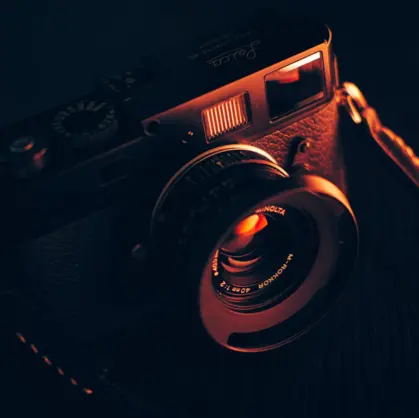
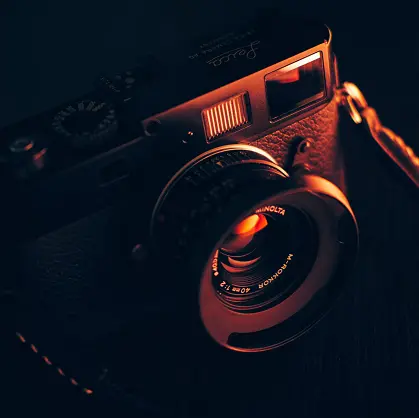
correction : creation class css width et height 100% pour toutes les images du site + modif compression image (trop de perte de qualité)

diff --git a/index.html b/index.html
@@ -29,8 +29,8 @@
 				<li><a href="#services">Service</a></li>
 				<li><a href="#contact">Contact</a></li>
 				<li><a class="social-link" href="https://www.instagram.com/ninacarducci.photo/?hl=fr"
-						target="_blank"><img src="assets/images/instagram.png" alt="logo instagram"
-							title="Instagram"></a></li>
+						target="_blank"><img src="assets/images/instagram.png" alt="logo instagram" title="Instagram"
+							class="width-height-100"></a></li>
 			</ul>
 		</nav>
 	</header>
@@ -47,16 +47,16 @@
 			</div>
 			<div class="carousel-inner">
 				<div class="carousel-item active">
-					<img src="./assets/images/slider/ryoji-iwata-entreprise.webp" class="d-block w-100"
+					<img src="./assets/images/slider/ryoji-iwata-entreprise.webp" class="d-block w-100 width-height-100"
 						alt="photo d'un homme d'affaires">
 				</div>
 				<div class="carousel-item">
-					<img src="./assets/images/slider/nicholas-green-foule-concert.webp" class="d-block w-100"
-						alt="photo d'une foule dans un concert">
+					<img src="./assets/images/slider/nicholas-green-foule-concert.webp"
+						class="d-block w-100 width-height-100" alt="photo d'une foule dans un concert">
 				</div>
 				<div class="carousel-item">
-					<img src="./assets/images/slider/edward-cisneros-mariage.webp" class="d-block w-100"
-						alt="photo de mariage">
+					<img src="./assets/images/slider/edward-cisneros-mariage.webp"
+						class="d-block w-100 width-height-100" alt="photo de mariage">
 				</div>
 			</div>
 			<button class="carousel-control-prev" type="button" data-bs-target="#carouselExampleIndicators"
@@ -75,7 +75,8 @@
 	<main>
 		<div id="about">
 			<div class="picture left">
-				<img src="./assets/images/nina.webp" alt="portrait de Nina Carducci" title="Nina Carducci">
+				<img src="./assets/images/nina.webp" alt="portrait de Nina Carducci" title="Nina Carducci"
+					class="width-height-100">
 			</div>
 			<div id="about-me">
 				<h2 class="about-me__title">A propos de moi</h2>
@@ -99,30 +100,30 @@
 			<h2 class="title">Portfolio</h2>
 			<div class="container py-3">
 				<div class="gallery" style="display: none">
-					<img data-gallery-tag="Concert" class="gallery-item"
+					<img data-gallery-tag="Concert" class="gallery-item width-height-100"
 						src="./assets/images/gallery/concerts/aaron-paul-concert.webp"
 						alt="Photo d'un concert - Aaron Paul" />
-					<img data-gallery-tag="Entreprises" class="gallery-item"
-						src="./assets/images/gallery/entreprise/ali-morshedlou-portrait-entreprise.jpg"
+					<img data-gallery-tag="Entreprises" class="gallery-item width-height-100"
+						src="./assets/images/gallery/entreprise/ali-morshedlou-portrait-entreprise.webp"
 						alt="Photo d'entreprise - portrait d'un homme" />
-					<img data-gallery-tag="Entreprises" class="gallery-item"
+					<img data-gallery-tag="Entreprises" class="gallery-item width-height-100"
 						src="./assets/images/gallery/entreprise/jason-goodman-portrait-entreprise.webp"
 						alt="Photo d'entreprise - portrait d'une femme" />
-					<img data-gallery-tag="Mariages" class="gallery-item"
+					<img data-gallery-tag="Mariages" class="gallery-item width-height-100"
 						src="./assets/images/gallery/mariage/hannah-busing-mariage.webp"
 						alt="Photo de mariage - main dans la main" />
-					<img data-gallery-tag="Portrait" class="gallery-item"
+					<img data-gallery-tag="Portrait" class="gallery-item width-height-100"
 						src="./assets/images/gallery/portraits/ade-tunji-portrait.webp" alt="Portrait d'un homme" />
-					<img data-gallery-tag="Mariages" class="gallery-item"
+					<img data-gallery-tag="Mariages" class="gallery-item width-height-100"
 						src="./assets/images/gallery/mariage/jakob-owens-mariage.webp"
 						alt="Photo de mariage - couple" />
-					<img data-gallery-tag="Portrait" class="gallery-item"
+					<img data-gallery-tag="Portrait" class="gallery-item width-height-100"
 						src="./assets/images/gallery/portraits/nino-van-prattenburg-portrait.webp"
 						alt="Portrait d'une femme" />
-					<img data-gallery-tag="Concert" class="gallery-item"
+					<img data-gallery-tag="Concert" class="gallery-item width-height-100"
 						src="./assets/images/gallery/concerts/austin-neill-concert.webp"
 						alt="Photo d'un concert - Aaron Paul" />
-					<img data-gallery-tag="Entreprises" class="gallery-item"
+					<img data-gallery-tag="Entreprises" class="gallery-item width-height-100"
 						src="./assets/images/gallery/entreprise/mateus-campos-felipe-portrait-entreprise.webp"
 						alt="Photo d'entreprise - portrait d'une femme" />
 				</div>
@@ -206,7 +207,7 @@
 					</form>
 				</div>
 				<div class="picture right">
-					<img src="./assets/images/camera.webp" alt="Image d'un appareil photo">
+					<img src="./assets/images/camera.webp" alt="Image d'un appareil photo" class="width-height-100">
 				</div>
 			</div>
 		</div>

diff --git a/assets/style.css b/assets/style.css
@@ -91,11 +91,7 @@ body {
 #about-me p {
 	width: 80%;
 }
-
-#gallery {
-	/*	min-height: 100vh; */
-}
-#gallery img {
+.width-height-100 {
 	width: 100%;
 	height: 100%;
 }
